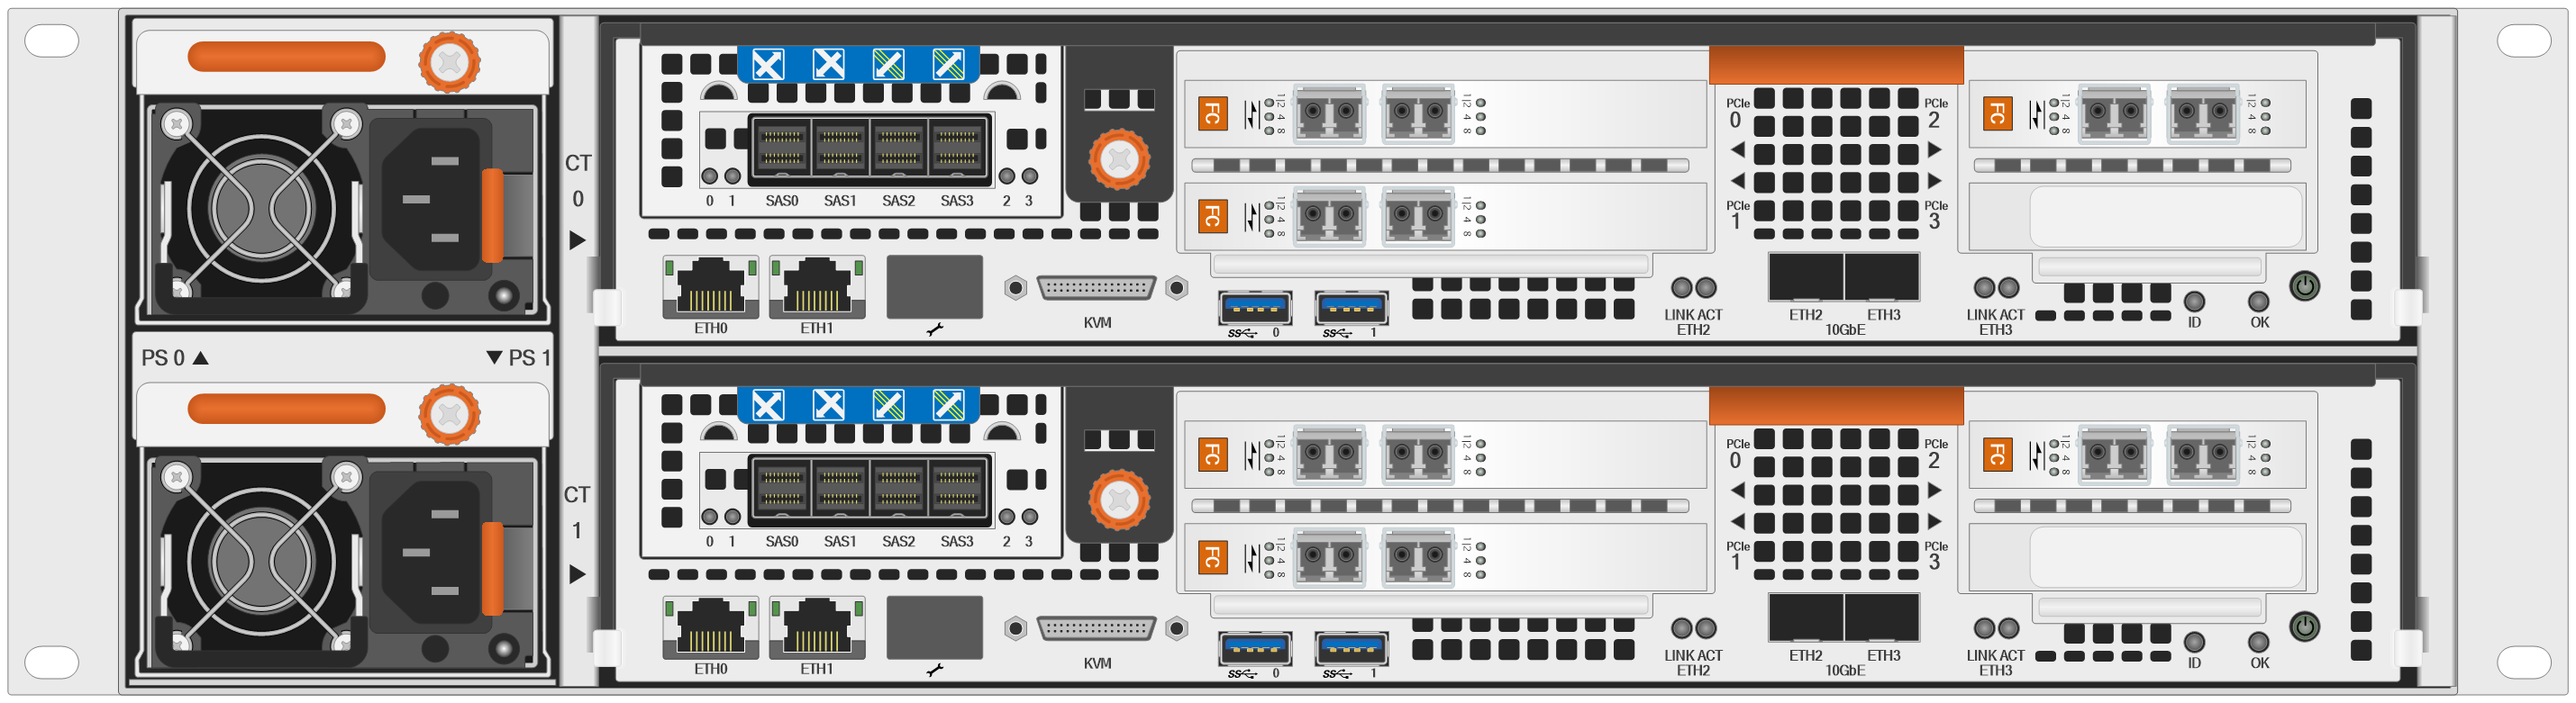
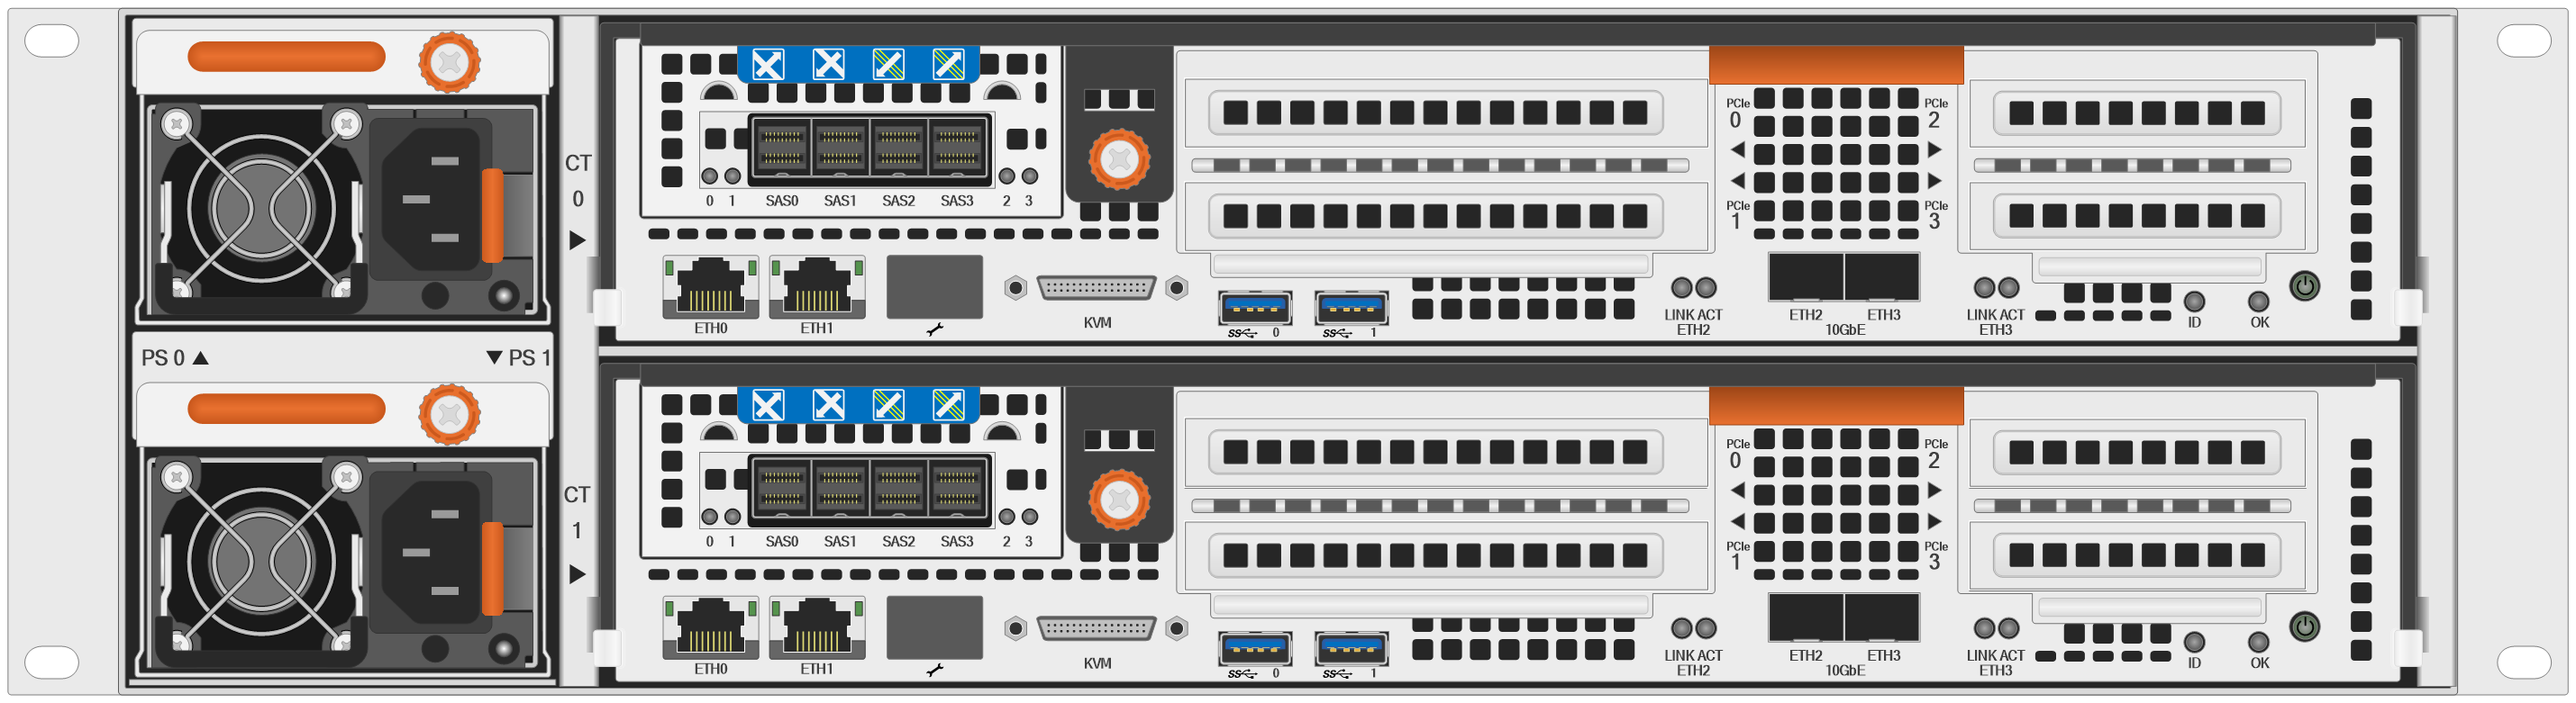
fixed //m card locations

diff --git a/PureRackdiagram.py b/PureRackdiagram.py
@@ -207,7 +207,11 @@ class FAChassis():
 
     async def add_card(self, slot, card_type):
         y_offset = 378
-        pci_loc = [(1198, 87), (1198, 203), (2069, 87), (2069, 203)]
+        if self.config['generation'] == 'x':
+            pci_loc = [(1198, 87), (1198, 203), (2069, 87), (2069, 203)]
+        elif self.config['generation'] == 'm':
+            pci_loc = [(1317, 87), (1317, 201), (2182, 87), (2182, 201)]
+        
         if slot < 2:
             height = "fh"
         else:

diff --git a/test.py b/test.py
@@ -6,11 +6,12 @@ def main():
 
     event = {
         "queryStringParameters": {
-            "model": "fa-x20r2",
+            "model": "fa-m20r2",
             "datapacks": "38/38-31/63-127/0",
             "direction":"down",
             "chassis": 2,
-            "face":"front"
+            "addoncards":"4fc,4fc,2eth",
+            "face":"back"
         },
         "test": True,
     }
